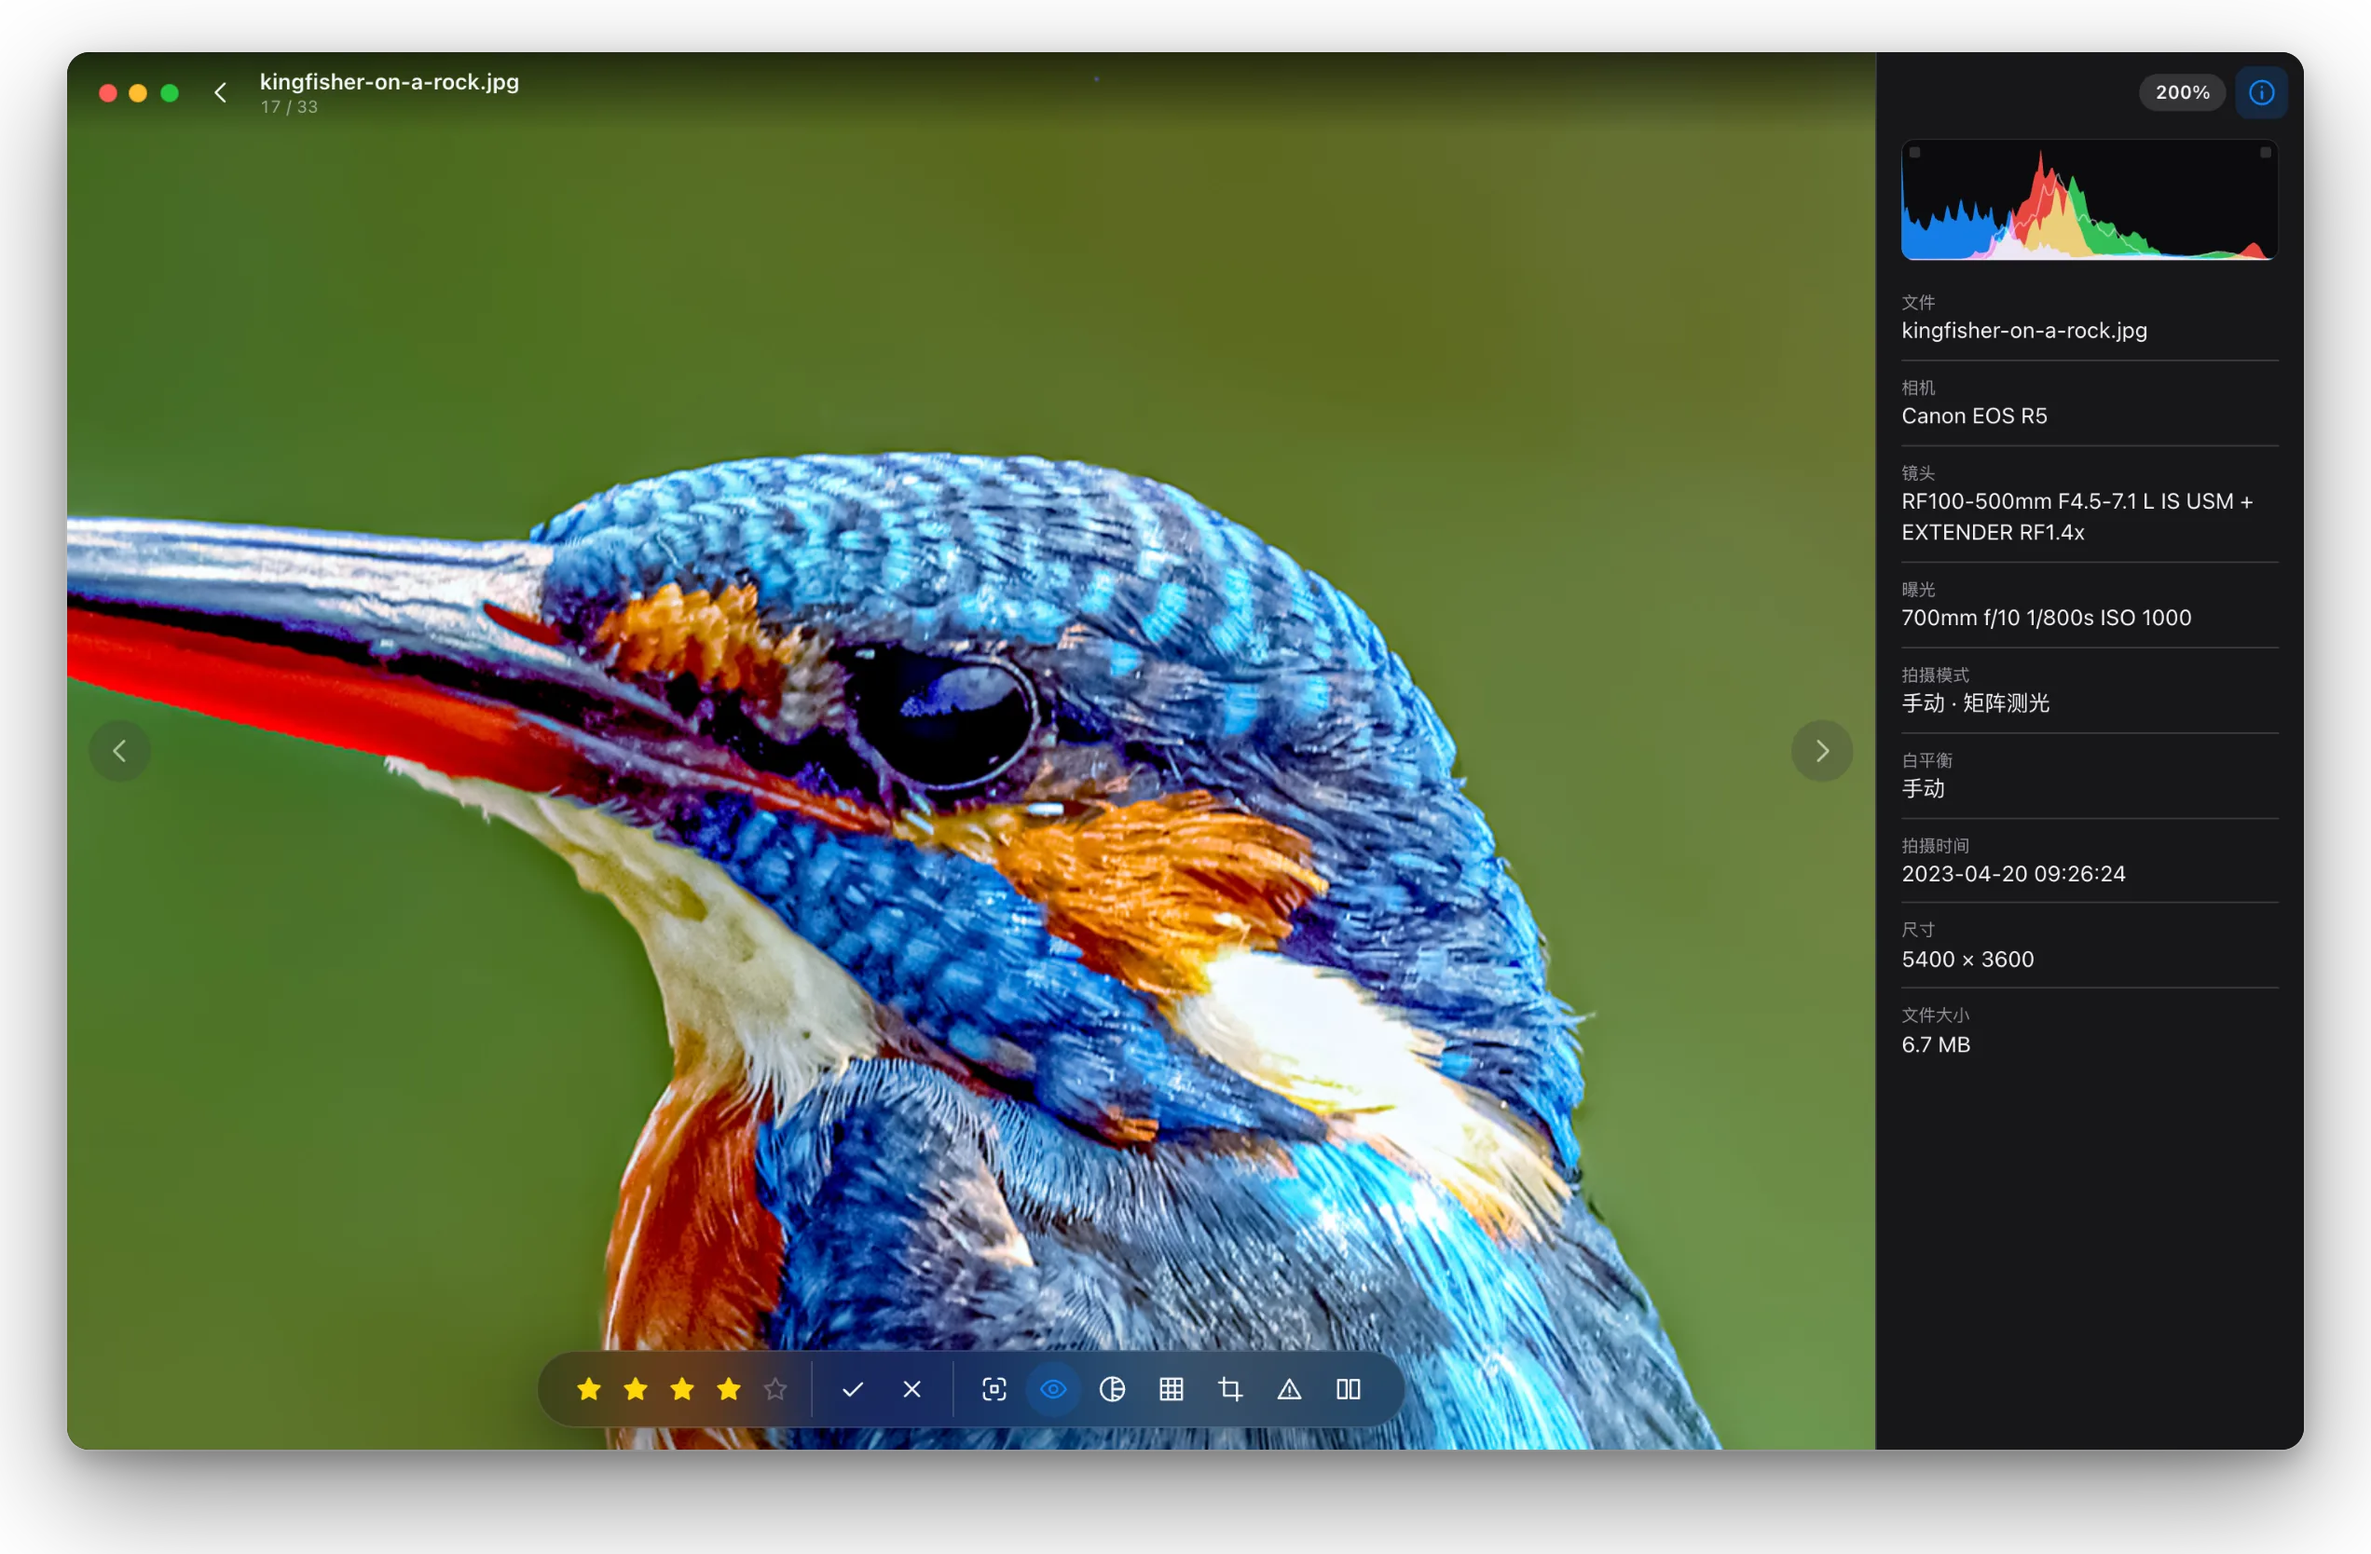
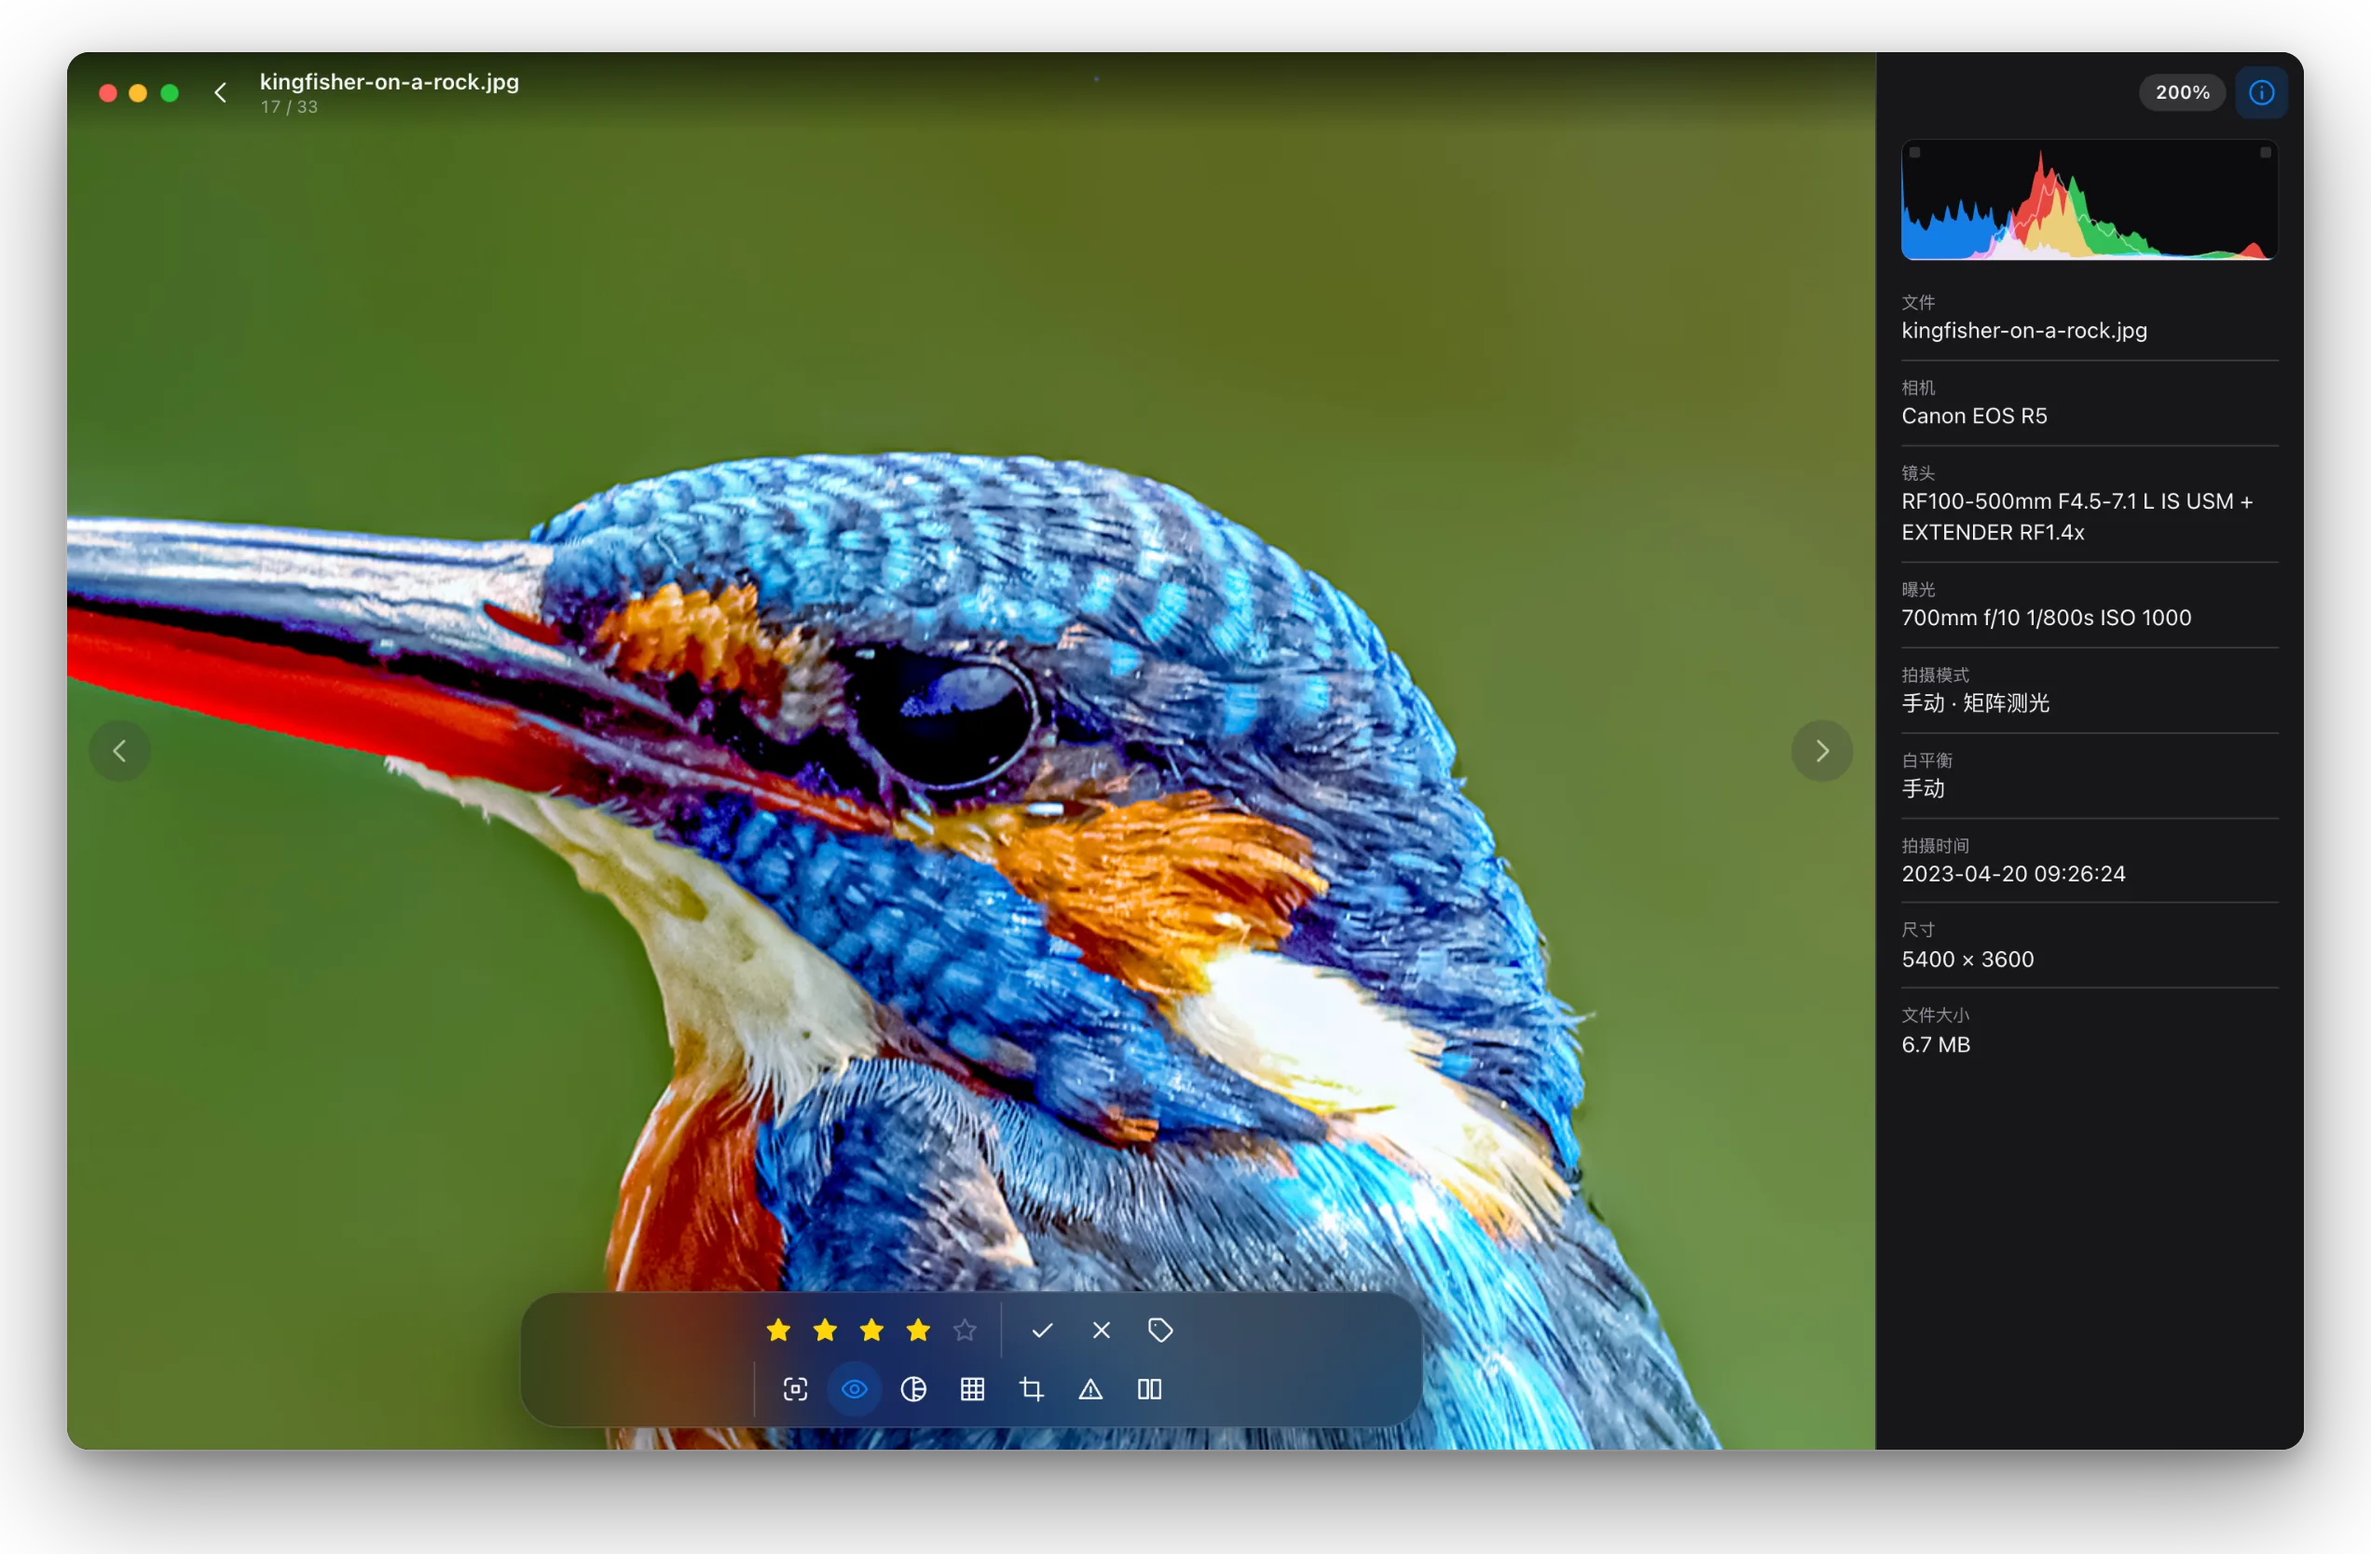
Show tags on the README and retake its screenshots for 0.4.2
The README described tags only in the feature list. It now has a section
of its own with two pictures: the grid with tags on the photos and the
filter row, and the export sheet sorting into a folder for each tag.
readme-shots.mjs gains the `tags` session that makes them.

The other screenshots are retaken so they show the current toolbar and
dock (both have the tag button now) and the JPG/HEIF switch in the Live
Photo editor. The recordings, the look wall and the chart are unchanged.

In the export sheet the row of tag folders is aligned to the left instead
of being spread over the row's width.

Changed region(s): [[0.2174, 0.8106, 0.6211, 0.9041]]

diff --git a/src/styles.css b/src/styles.css
@@ -3093,6 +3093,7 @@ input.text {
 }
 
 .row.tag-folders {
+  justify-content: flex-start;
   padding-top: 0;
   gap: 6px;
 }

diff --git a/README.en.md b/README.en.md
@@ -14,7 +14,7 @@ For RAW files Sift shows the preview the camera wrote into the file, so the next
 [![CI](https://github.com/kinyokun/sift/actions/workflows/ci.yml/badge.svg)](https://github.com/kinyokun/sift/actions/workflows/ci.yml)
 [![License](https://img.shields.io/github/license/kinyokun/sift?color=3a3d4a)](LICENSE)
 
-[**Download for macOS / Windows**](https://github.com/kinyokun/sift/releases/latest) · [Features](#no-waiting-for-raw-decoding) · [Performance](#performance) · [Build](#build) · [中文](README.md)
+[**Download for macOS / Windows**](https://github.com/kinyokun/sift/releases/latest) · [Features](#no-waiting-for-raw-decoding) · [Tags](#tags) · [Performance](#performance) · [Build](#build) · [中文](README.md)
 
 <img src="docs/readme/hero-en.webp" alt="Sift's photo grid on the desktop and its viewer on a phone" width="100%">
 
@@ -89,6 +89,19 @@ Press `C` to compare photos side by side: two, three or four at a time (`Shift+C
 `Ctrl` + scroll wheel or a pinch resizes the thumbnails. Keep zooming past two to a row and the photo under the pointer opens; zoom out in the viewer and you are back in the grid.
 
 <p align="center"><img src="docs/readme/zoom-en.webp" alt="Pinching from the grid into a photo and back out" width="88%"></p>
+
+## Tags
+
+Make a tag at any point while culling and put it on photos: press `T` and give it a name, then `Shift+1`–`Shift+9` put on or take off the first nine tags. A photo can carry several, one per person at an event, say, or one per use: "Client", "Instagram", "Print". The row of tags below the toolbar filters the grid: click one to see only its photos, or several at once.
+
+On export, switch on "A folder for each tag": every tag gets its own folder inside the destination, with the files named after the tag (`Client_001.JPG`), and a photo with several tags is in each of their folders; photos without a tag are left out unless you ask for them. Tags are saved with the folder's progress and are not written into the files.
+
+<table>
+<tr>
+<td width="50%"><img src="docs/readme/tags-en.webp" alt="Photos in the grid carrying tags, with the row of tags that filters them below the toolbar"></td>
+<td width="50%"><img src="docs/readme/tag-export-en.webp" alt="The export sheet: a folder for each tag, files named after the tag"></td>
+</tr>
+</table>
 
 ## Export and send to a phone
 

diff --git a/docs/readme/README.md b/docs/readme/README.md
@@ -26,7 +26,7 @@ done; done
 node scripts/readme-art.mjs /tmp/sift-readme docs/readme docs/readme/perf.json
 ```
 
-- `ONLY=library,viewer` 只跑其中几段；段名有 `library`、`viewer`、`eyes`、`looks`、`stack`、`clipping`、`export`、`light`、`phone`、`flip`、`zoom`、`perf`。`readme-art.mjs` 的 `ONLY` 按输出文件名前缀过滤
+- `ONLY=library,viewer` 只跑其中几段；段名有 `library`、`viewer`、`eyes`、`looks`、`stack`、`clipping`、`export`、`tags`、`light`、`phone`、`flip`、`zoom`、`perf`。`readme-art.mjs` 的 `ONLY` 按输出文件名前缀过滤
 - `perf` 一段不出图，在终端打印界面里实测的翻页耗时和第一屏耗时；要测近千张的文件夹，可以用硬链接把样张复制几十份
 - 核心的耗时（取内嵌预览、生成缩略图、完整解码）用 `cargo run --release -p sift-core --example probe -- --preview <输出目录> <文件…>` 和 `--develop` 测；`perf.json` 是性能图上的数字，换机器重测后改这里
 - 没有尼康引擎也能跑，只是 NP3 滤镜换成近似还原

diff --git a/CHANGELOG.md b/CHANGELOG.md
@@ -4,6 +4,10 @@
 
 ## [Unreleased]
 
+### 修复
+
+- 导出面板里“按标签分文件夹”下面的一排标签靠左排列，不再被拉开占满整行
+
 ## [0.4.2] - 2026-11-18
 
 ### 新增
